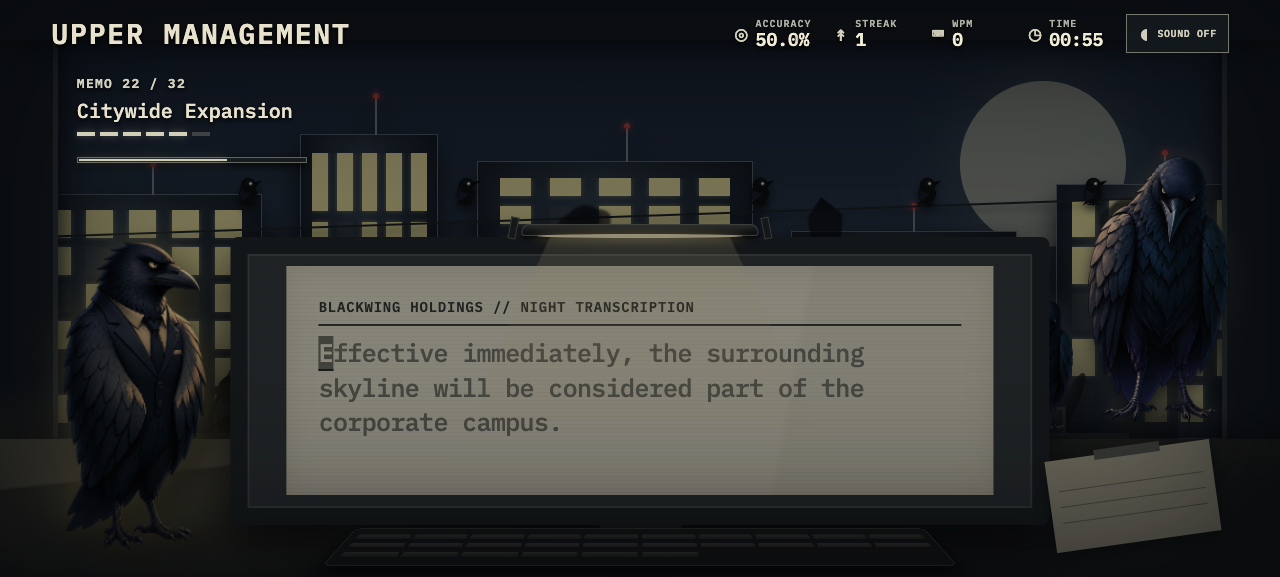
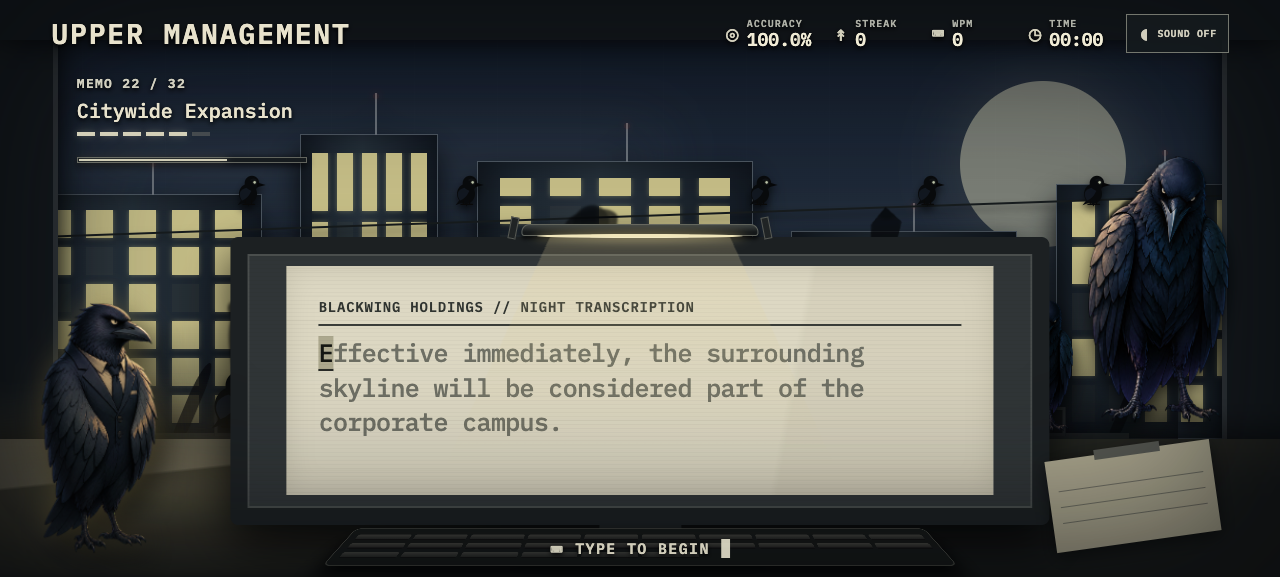
Reduce supervisor visual weight

diff --git a/typing/src/styles.css b/typing/src/styles.css
@@ -136,7 +136,7 @@ button { font: inherit; }
 .keyboard i { min-width: 8px; background: linear-gradient(#454640, #292a28); border-radius: 2px; border-bottom: 2px solid #101110; }
 .clipboard { position: absolute; z-index: 2; right: 5%; bottom: 6%; width: 13vw; min-width: 110px; height: 16vh; padding: 16px 10px; background: #aaa58d; transform: rotate(-8deg); box-shadow: 0 5px 17px #0008; }
 .clipboard::before { content: ''; position: absolute; width: 40%; height: 10px; left: 30%; top: -5px; background: #555751; }.clipboard i { display: block; height: 1px; margin-top: 15px; background: #6e6d61; }
-.supervisor-perch { position: absolute; z-index: 4; left: 1.5%; bottom: 7%; width: clamp(180px, 21vw, 300px); transition: transform .5s; filter: drop-shadow(8px 14px 12px #000b); }
+.supervisor-perch { position: absolute; z-index: 4; left: 1.5%; bottom: 5%; width: clamp(125px, 14vw, 190px); transition: transform .5s; filter: drop-shadow(8px 14px 12px #000b); }
 .supervisor { display: block; width: 100%; height: auto; transform-origin: bottom; transition: filter .25s, transform .25s; animation: ravenBreathe 3s ease-in-out infinite; }
 .supervisor-image { filter: brightness(1.12) drop-shadow(0 0 13px #e8ce7852); }
 .supervisor-image.watchful { filter: brightness(1.17) contrast(1.06) drop-shadow(0 0 16px #e8ce7866); }
@@ -145,7 +145,7 @@ button { font: inherit; }
 .supervisor-image.approving { animation: nod .42s ease-in-out 2; }
 @keyframes ruffle { 30% { transform: scale(1.055) rotate(-1.5deg); filter: brightness(1.35); } 70% { transform: scale(.99) rotate(1deg); } }
 @keyframes nod { 50% { transform: rotate(2deg) translateY(7px) scaleY(.985); } }
-.scrutiny-5 .supervisor-perch, .scrutiny-6 .supervisor-perch, .scrutiny-7 .supervisor-perch { transform: translateX(4vw) scale(1.1); }
+.scrutiny-5 .supervisor-perch, .scrutiny-6 .supervisor-perch, .scrutiny-7 .supervisor-perch { transform: translateX(2vw) scale(1.05); }
 .reflection-raven { position: absolute; width: 82px; right: 8%; bottom: 8%; opacity: 0; mix-blend-mode: multiply; transform: scaleX(-1); transition: opacity 1s; }
 .scrutiny-7 .reflection-raven { opacity: .3; }
 .collective-stare .raven-head { transform: rotate(-28deg) translate(-7px, 8px) scale(1.07); }
@@ -188,13 +188,13 @@ button { font: inherit; }
   .hud { padding: 9px 12px; }.brand-block h1 { display: none; }.metrics { width: 100%; justify-content: space-between; gap: 5px; }.metric { min-width: 0; gap: 4px; }.metric > b { font-size: 16px; }.metric small { font-size: 8px; }.metric strong { font-size: 14px; }.audio-toggle { padding: 7px; }.audio-toggle span { display: none; }.audio-toggle b { font-size: 17px; }
   .stage-label { top: 9%; left: 14px; }
   .monitor { width: 92vw; height: 51vh; bottom: 15%; }.memo-card { inset: 3%; padding: 17px; }.memo-header { font-size: clamp(11px, 3vw, 14px); }.memo-text { font-size: clamp(20px, 5vw, 25px); line-height: 1.34; }
-  .supervisor-perch { left: -2%; bottom: 4%; width: 145px; }.clipboard { display: none; }.keyboard { width: 74vw; bottom: 3%; }
+  .supervisor-perch { left: -1%; bottom: 3%; width: 112px; }.clipboard { display: none; }.keyboard { width: 74vw; bottom: 3%; }
   .skyline { left: -20%; right: -20%; }.rear-office { display: none; }.window-raven-wrap { right: 0; top: 14%; transform: scale(.7) translateX(100px); }.stage-3 .window-raven-wrap, .stage-4 .window-raven-wrap, .stage-5 .window-raven-wrap, .stage-6 .window-raven-wrap { transform: scale(.7); }
   .shift-progress { left: 14px; right: 14px; width: auto; top: 58px; }.stage-label { top: 12%; }.game-feedback { top: 17%; max-width: 92vw; overflow: hidden; text-overflow: ellipsis; font-size: 9px; }
 }
 
 @media (max-height: 650px) and (min-width: 761px) {
-  .monitor { height: 50vh; bottom: 9%; }.memo-rule { margin-bottom: 10px; }.supervisor-perch { width: 130px; }.stage-label { top: 13%; }.shift-progress { top: calc(13% + 82px); }
+  .monitor { height: 50vh; bottom: 9%; }.memo-rule { margin-bottom: 10px; }.supervisor-perch { width: 110px; }.stage-label { top: 13%; }.shift-progress { top: calc(13% + 82px); }
 }
 
 @media (prefers-reduced-motion: reduce) {
